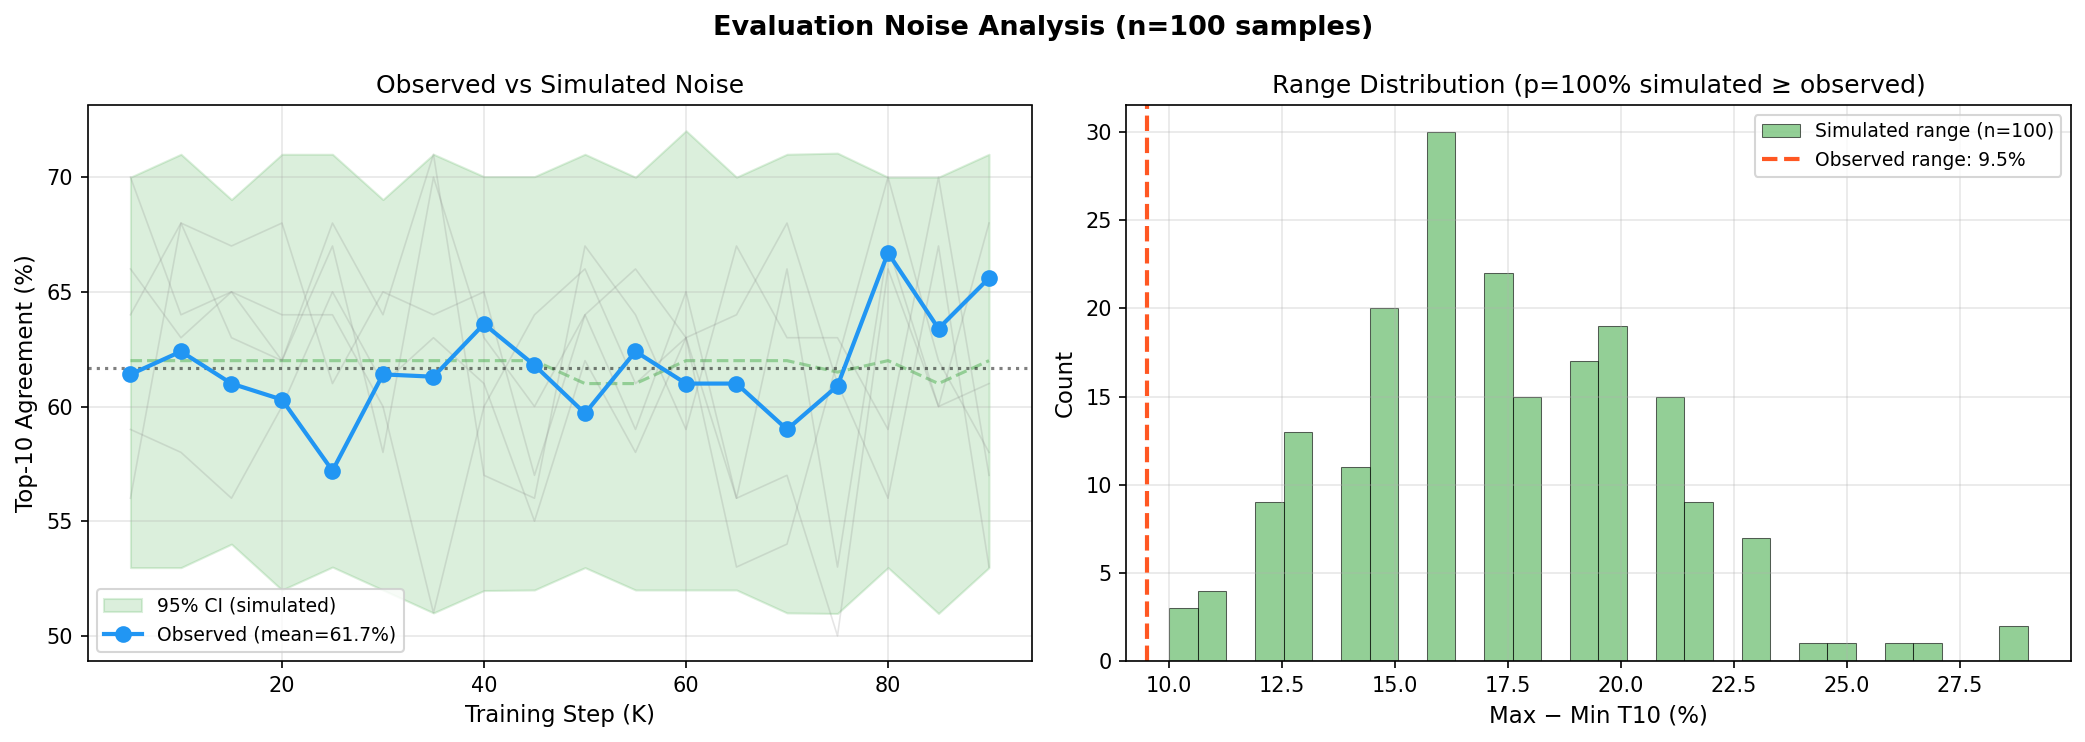
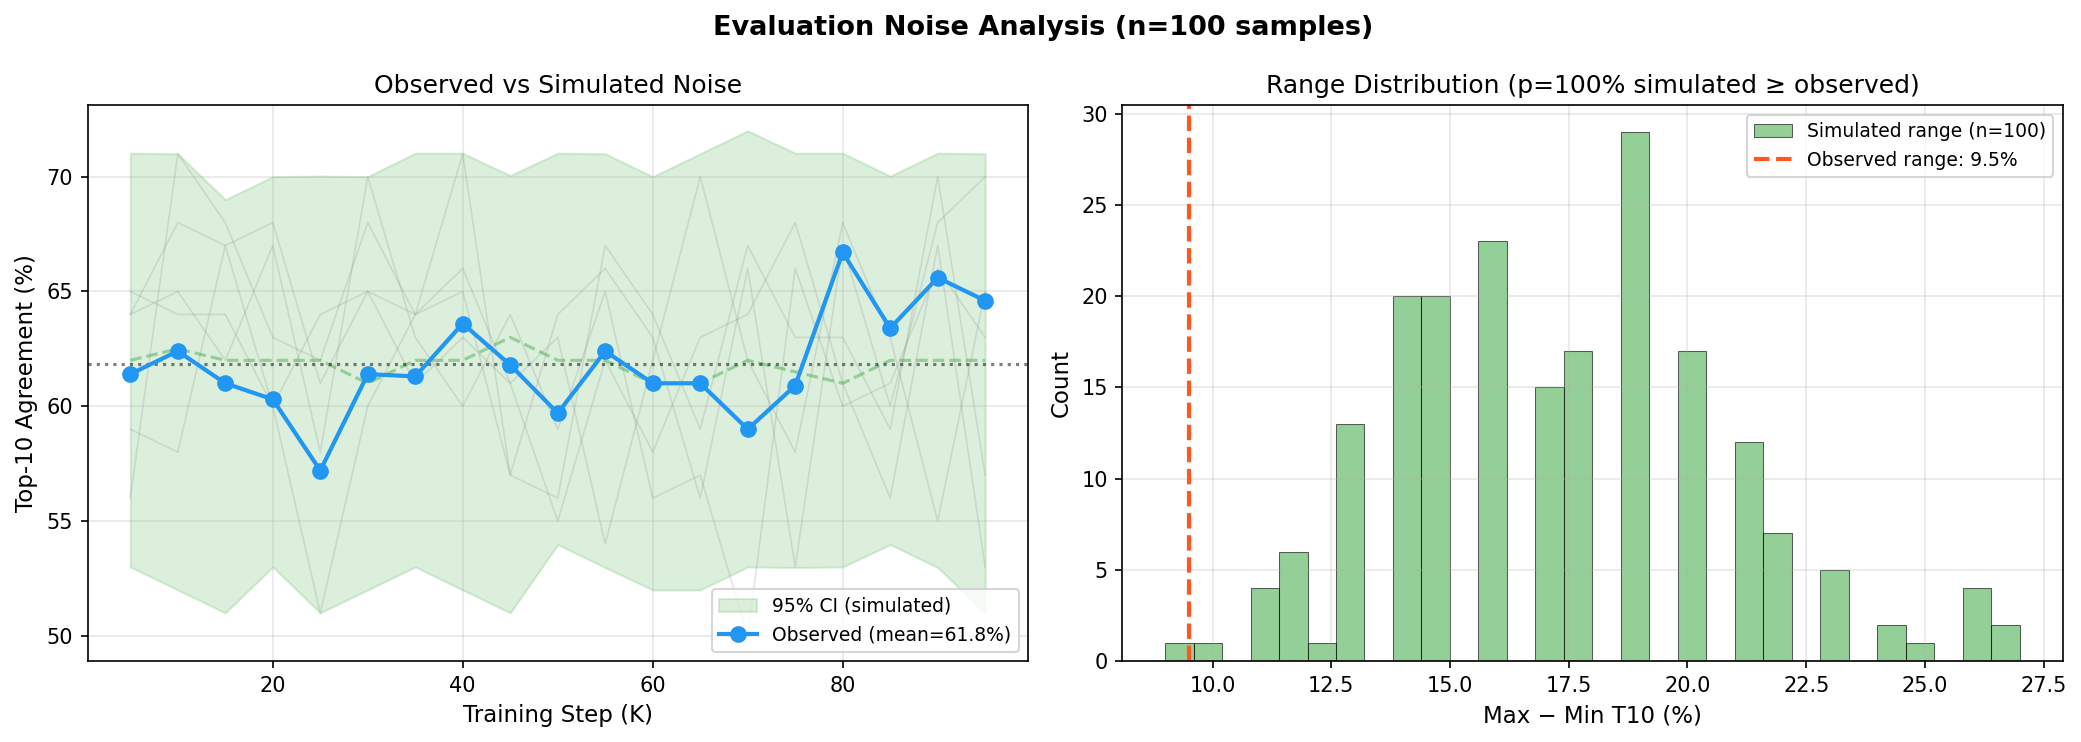
1.7B 95K: T10=64.6% stable in higher basin (post-80K avg=64.5%)

diff --git a/generate_paper_figures.py b/generate_paper_figures.py
@@ -83,10 +83,10 @@ curves_t10 = {
     '1.7B Real Text': {
         'steps': [0, 5_000, 10_000, 15_000, 20_000, 25_000, 30_000, 35_000,
                   40_000, 45_000, 50_000, 55_000, 60_000, 65_000, 70_000,
-                  75_000, 80_000, 85_000, 90_000],
+                  75_000, 80_000, 85_000, 90_000, 95_000],
         't10':   [21.4, 61.4, 62.4, 61.0, 60.3, 57.2, 61.4, 61.3,
                   63.6, 61.8, 59.7, 62.4, 61.0, 61.0, 59.0,
-                  60.9, 66.7, 63.4, 65.6],
+                  60.9, 66.7, 63.4, 65.6, 64.6],
         'color': COLORS['1.7b_real'],
         'style': '-',
         'marker': 'o',
@@ -315,16 +315,16 @@ def fig5_temperature():
     # 1.7B real text data: step, T10, temperature
     steps = [0, 5000, 10000, 15000, 20000, 25000, 30000, 35000,
              40000, 45000, 50000, 55000, 60000, 65000, 70000,
-             75000, 80000, 85000, 90000]
+             75000, 80000, 85000, 90000, 95000]
     t10 = [21.4, 61.4, 62.4, 61.0, 60.3, 57.2, 61.4, 61.3,
            63.6, 61.8, 59.7, 62.4, 61.0, 61.0, 59.0,
-           60.9, 66.7, 63.4, 65.6]
+           60.9, 66.7, 63.4, 65.6, 64.6]
     temps = [5.0, 4.8, 4.5, 4.2, 4.0, 3.8, 3.5, 3.2,
              3.0, 2.8, 2.5, 2.2, 2.0, 2.0, 2.0,
-             2.0, 2.0, 2.0, 2.0]
+             2.0, 2.0, 2.0, 2.0, 2.0]
     loss = [561.9, 41.3, 37.6, 37.4, 37.2, 37.9, 38.5, 38.9,
             38.8, 42.1, 44.4, 47.5, 49.7, 50.4, 48.9,
-            49.1, 49.1, 48.5, 48.8]
+            49.1, 49.1, 48.5, 48.8, 49.5]
 
     # Left: T10 and temperature vs steps
     color_t10 = COLORS['1.7b_real']

diff --git a/analyze_training.py b/analyze_training.py
@@ -47,7 +47,7 @@ class Experiment:
 # ---------------------------------------------------------------------------
 
 def get_1_7b_real_text() -> Experiment:
-    """1.7B real text 100K training data (through 90K)."""
+    """1.7B real text 100K training data (through 95K)."""
     exp = Experiment(name="1.7B Real Text 100K", total_steps=100_000, params=29_380_636)
     data = [
         (0, 561.92, 5.0, 21.4, 5.0, 12),
@@ -69,6 +69,7 @@ def get_1_7b_real_text() -> Experiment:
         (80000, 49.10, 47.0, 66.7, 2.0, 10123),
         (85000, 48.53, 48.0, 63.4, 2.0, 10702),
         (90000, 48.77, 38.0, 65.6, 2.0, 11277),
+        (95000, 49.52, 38.0, 64.6, 2.0, 11852),
     ]
     for step, loss, t1, t10, temp, elapsed in data:
         exp.points.append(TrainingPoint(step, loss, t1, t10, temp, elapsed))

diff --git a/PAPER_DRAFT.md b/PAPER_DRAFT.md
@@ -194,6 +194,7 @@ We validate FRR on Qwen3-1.7B (2B parameters, 28 layers, hidden=2048), comparing
 | **Qwen3-1.7B** | **Real text** | **80K** | **47%** | **66.7%** | **52x** | **29.4M** |
 | Qwen3-1.7B | Real text | 85K | 48% | 63.4% | 52x | 29.4M |
 | Qwen3-1.7B | Real text | 90K | 38% | 65.6% | 52x | 29.4M |
+| Qwen3-1.7B | Real text | 95K | 38% | 64.6% | 52x | 29.4M |
 
 Two scaling dimensions emerge:
 
@@ -201,7 +202,7 @@ Two scaling dimensions emerge:
 
 **Training signal.** Real text distillation (FineWeb-Edu) improves T10 by **+4% over random tokens** at 15K steps (60% vs 56% for 0.6B). Random tokens waste teacher capacity on nonsensical sequences; real text allows the teacher to produce meaningful distributions that transfer more information per batch. At 1.7B scale, real text reaches 62.4% T10 in only 10K steps — matching the random-token 15K result in 2/3 the compute.
 
-**Training dynamics.** At 1.7B scale with real text, T10 peaks at 10K steps (62.4%) then oscillates: 61.0% (15K) → 60.3% (20K) → 57.2% (25K) → 61.4% (30K) → 61.3% (35K) → **63.6% (40K)** → 61.8% (45K) → 59.7% (50K) → 62.4% (55K) → 61.0% (60K) → 61.0% (65K) → 59.0% (70K) → 60.9% (75K) → **66.7% (80K, new best)** → 63.4% (85K) → 65.6% (90K). The 80K result at $T=2.0$ surpasses the previous 40K record (63.6% at $T=3.0$), demonstrating that the convergence plateau was not a capacity limit but a transient phase — the model can break through with continued training at minimum temperature. After 55K, temperature reached its minimum ($T=2.0$) and T10 appeared to oscillate around ~60-61% for 25K steps before this breakthrough. The post-80K trajectory (63.4% at 85K, 65.6% at 90K) confirms the model has shifted to a higher-quality basin, with T10 now fluctuating around ~65% rather than the prior ~61% plateau. Loss shows non-monotonic behavior at the plateau (50.4 at 65K → 48.9 at 70K → 49.1 at 75K → 49.1 at 80K → 48.5 at 85K → 48.8 at 90K), suggesting the optimizer found a better basin. T10 remains within the ±9.5% CI band, confirming stable distributional alignment at the compression limit. T1 shows high variance (28-49%) consistent with the ±9.5% CI at $n=100$. See Figure 1 (temperature analysis) and Figure 2 (noise simulation).
+**Training dynamics.** At 1.7B scale with real text, T10 peaks at 10K steps (62.4%) then oscillates: 61.0% (15K) → 60.3% (20K) → 57.2% (25K) → 61.4% (30K) → 61.3% (35K) → **63.6% (40K)** → 61.8% (45K) → 59.7% (50K) → 62.4% (55K) → 61.0% (60K) → 61.0% (65K) → 59.0% (70K) → 60.9% (75K) → **66.7% (80K, new best)** → 63.4% (85K) → 65.6% (90K) → 64.6% (95K). The 80K result at $T=2.0$ surpasses the previous 40K record (63.6% at $T=3.0$), demonstrating that the convergence plateau was not a capacity limit but a transient phase — the model can break through with continued training at minimum temperature. After 55K, temperature reached its minimum ($T=2.0$) and T10 appeared to oscillate around ~60-61% for 25K steps before this breakthrough. The post-80K trajectory (63.4% at 85K, 65.6% at 90K, 64.6% at 95K) confirms the model has shifted to a higher-quality basin, with T10 now fluctuating around ~64.5% rather than the prior ~61% plateau. Loss shows non-monotonic behavior at the plateau (50.4 at 65K → 48.9 at 70K → 49.1 at 75K → 49.1 at 80K → 48.5 at 85K → 48.8 at 90K → 49.5 at 95K), suggesting the optimizer found a better basin. T10 remains within the ±9.5% CI band, confirming stable distributional alignment at the compression limit. T1 shows high variance (28-49%) consistent with the ±9.5% CI at $n=100$. See Figure 1 (temperature analysis) and Figure 2 (noise simulation).
 
 ![Figure 1: FRR Training Curves](paper_figures/fig1_training_curves.png)
 *Figure 1: T10 training curves for 0.6B and 1.7B models on random vs real text distillation. The 1.7B real text trajectory shows the ~61% plateau (25K-75K) followed by the 66.7% breakthrough at 80K. Orange band shows the plateau region.*
@@ -397,6 +398,7 @@ We have shown that a single transformer block, applied recursively 28 times with
 | **80K** | **49.10** | **47%** | **66.7%** | **2.0** | **10123s** | **New best T10!** |
 | 85K | 48.53 | 48% | 63.4% | 2.0 | 10702s | |
 | 90K | 48.77 | 38% | 65.6% | 2.0 | 11277s | Confirms higher basin |
+| 95K | 49.52 | 38% | 64.6% | 2.0 | 11852s | Stable in new basin |
 
 **HellaSwag at 50K: FRR 28.0% vs Teacher 31.3% = 89.4% retention. WikiText-2 PPL: FRR 1322.2 vs Teacher 670.7.**
 

diff --git a/STATUS.md b/STATUS.md
@@ -158,7 +158,7 @@ Target: 90%+ T10. Paths:
 | GPU | Experiment | Status | Latest | Notes |
 |-----|-----------|--------|--------|-------|
 | 0 | **8B Real Text 50K (streaming, RAM-preloaded)** | **Step 0/50K** | T1=2.0% T10=13.0% loss=535.0 | **5.9x faster: 66s vs 390s per eval step** |
-| 1 | 1.7B Real Text 100K | Step 90K/100K | **T1=38% T10=65.6%** (best=66.7% at 80K) | 95K + 100K final coming soon |
+| 1 | 1.7B Real Text 100K | Step 95K/100K | **T1=38% T10=64.6%** (best=66.7% at 80K) | 99999 final eval coming! |
 
 ### SELECTIVE STUDENT — Experiment 1 COMPLETE (0.6B, 15K steps)
 | Step | Loss | T1 | T10 | Elapsed |
@@ -227,6 +227,7 @@ Target: 90%+ T10. Paths:
 | **80000** | **49.10** | **47.0%** | **66.7%** | **2.0** | **10123s** | **NEW BEST T10!** |
 | 85000 | 48.53 | 48.0% | 63.4% | 2.0 | 10702s | |
 | 90000 | 48.77 | 38.0% | 65.6% | 2.0 | 11277s | Higher basin confirmed |
+| 95000 | 49.52 | 38.0% | 64.6% | 2.0 | 11852s | Stable in new basin |
 
 **50K HellaSwag + WikiText-2 Evaluation:**
 | Model | HellaSwag | WikiText-2 PPL |
